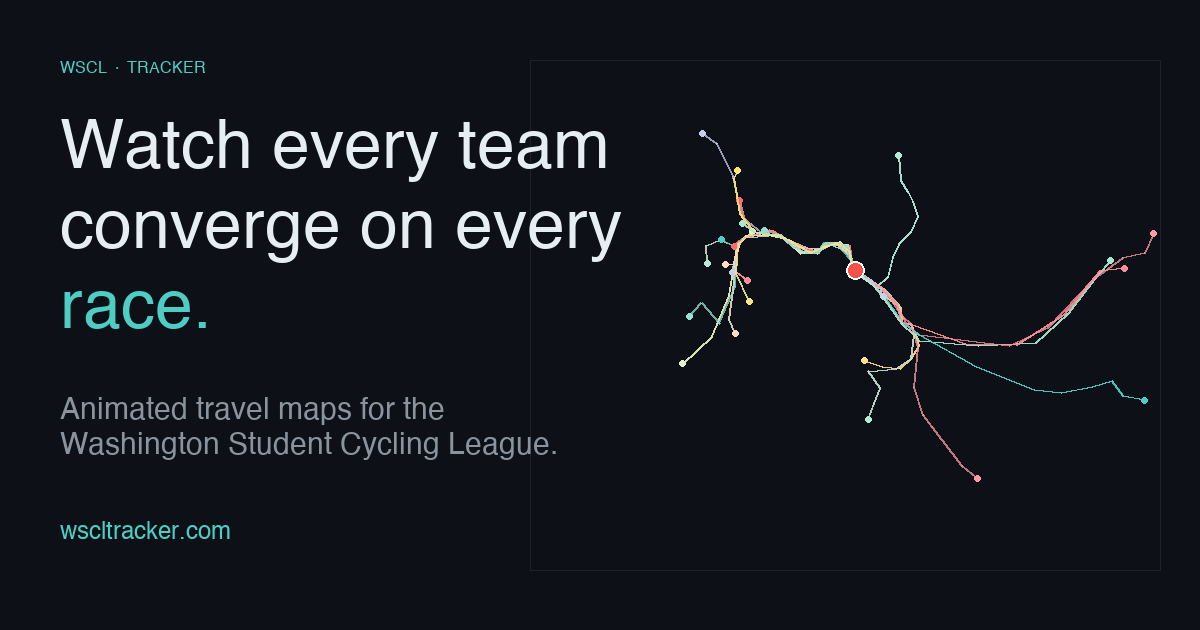
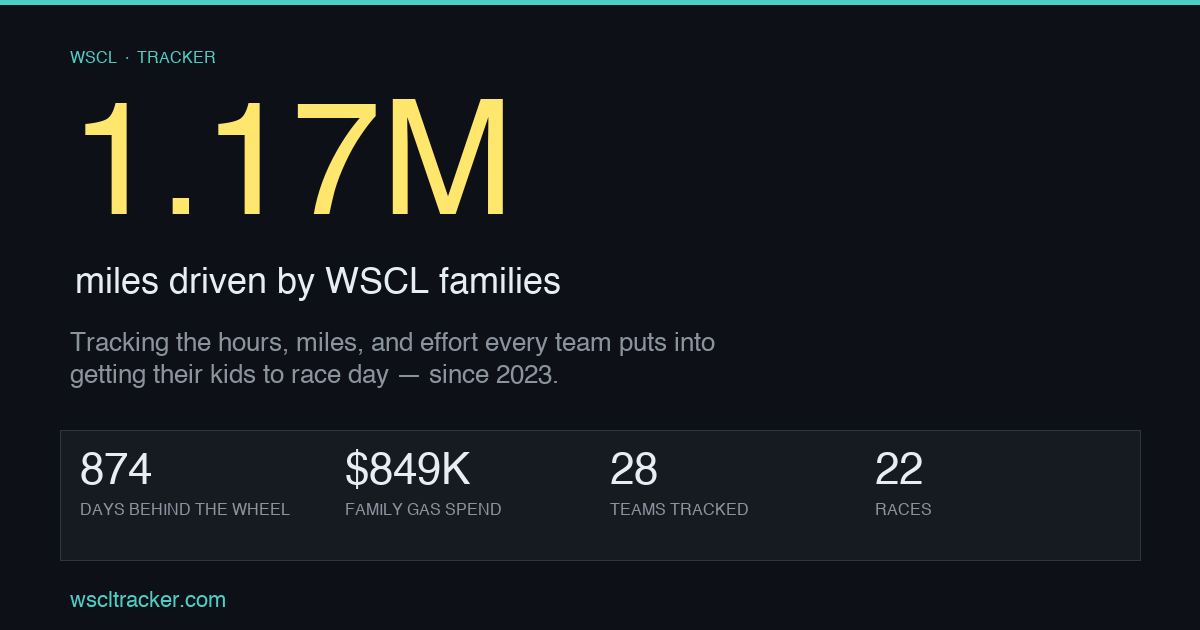
Reframe metadata and og:image around league-wide travel effort
The map is the most eye-catching feature, but it's not what the site
is about — it's a leaderboard that recognizes how much time, money,
and miles families and teams put into getting kids to WSCL races.

- Rewrote <title>, meta description, og:title/description, and
  twitter:title/description around that framing
- Redesigned og-image.png to lead with the headline stat (1.17M
  miles driven) plus supporting numbers (874 days on the road,
  $849K family gas spend, 28 teams tracked, 22 races)

diff --git a/index.html b/index.html
@@ -4,8 +4,8 @@
   <meta charset="UTF-8">
   <meta name="viewport" content="width=device-width, initial-scale=1.0">
 
-  <title>WSCL Travel Tracker — Washington Student Cycling League Distance & Routes</title>
-  <meta name="description" content="Interactive tracker for Washington Student Cycling League travel. Watch animated maps of every team converging on every race venue since 2023, with distance stats, per-family costs, and venue-by-venue breakdowns.">
+  <title>WSCL Tracker — Miles, Hours, and Effort Behind Every WSCL Race</title>
+  <meta name="description" content="A leaderboard for the Washington Student Cycling League: how many miles each team drives, how much families spend on gas, and how many hours parents put into race-day travel. Over 1 million miles tracked since 2023.">
   <meta name="author" content="Andrew Hoehn">
   <meta name="robots" content="index, follow">
   <meta name="theme-color" content="#238636">
@@ -18,18 +18,18 @@
   <!-- Open Graph -->
   <meta property="og:type" content="website">
   <meta property="og:url" content="https://wscltracker.com/">
-  <meta property="og:title" content="WSCL Travel Tracker">
-  <meta property="og:description" content="Watch Washington Student Cycling League teams converge on every race venue in animated maps. Real drive-time animations, distance stats, and per-family cost breakdowns since 2023.">
+  <meta property="og:title" content="WSCL Tracker — The Miles Behind Every Race">
+  <meta property="og:description" content="Over 1 million miles, 870+ days on the road, and $849K in family gas — tracked since 2023. A leaderboard for the WSCL teams and families putting in the work to get kids to race day.">
   <meta property="og:site_name" content="WSCL Tracker">
   <meta property="og:image" content="https://wscltracker.com/og-image.png">
   <meta property="og:image:width" content="1200">
   <meta property="og:image:height" content="630">
-  <meta property="og:image:alt" content="WSCL Travel Tracker — animated maps of teams converging on every race venue">
+  <meta property="og:image:alt" content="WSCL Tracker: 1.17 million miles driven by WSCL families since 2023">
 
   <!-- Twitter Card -->
   <meta name="twitter:card" content="summary_large_image">
-  <meta name="twitter:title" content="WSCL Travel Tracker">
-  <meta name="twitter:description" content="Watch Washington Student Cycling League teams converge on every race venue in animated maps. Real drive-time animations, distance stats, and per-family cost breakdowns since 2023.">
+  <meta name="twitter:title" content="WSCL Tracker — The Miles Behind Every Race">
+  <meta name="twitter:description" content="Over 1 million miles, 870+ days on the road, and $849K in family gas — tracked since 2023. A leaderboard for the WSCL teams and families putting in the work to get kids to race day.">
   <meta name="twitter:image" content="https://wscltracker.com/og-image.png">
 
   <script crossorigin src="https://unpkg.com/react@18/umd/react.production.min.js"></script>

diff --git a/wscl_dashboard_v2.html b/wscl_dashboard_v2.html
@@ -4,8 +4,8 @@
   <meta charset="UTF-8">
   <meta name="viewport" content="width=device-width, initial-scale=1.0">
 
-  <title>WSCL Travel Tracker — Washington Student Cycling League Distance & Routes</title>
-  <meta name="description" content="Interactive tracker for Washington Student Cycling League travel. Watch animated maps of every team converging on every race venue since 2023, with distance stats, per-family costs, and venue-by-venue breakdowns.">
+  <title>WSCL Tracker — Miles, Hours, and Effort Behind Every WSCL Race</title>
+  <meta name="description" content="A leaderboard for the Washington Student Cycling League: how many miles each team drives, how much families spend on gas, and how many hours parents put into race-day travel. Over 1 million miles tracked since 2023.">
   <meta name="author" content="Andrew Hoehn">
   <meta name="robots" content="index, follow">
   <meta name="theme-color" content="#238636">
@@ -18,18 +18,18 @@
   <!-- Open Graph -->
   <meta property="og:type" content="website">
   <meta property="og:url" content="https://wscltracker.com/">
-  <meta property="og:title" content="WSCL Travel Tracker">
-  <meta property="og:description" content="Watch Washington Student Cycling League teams converge on every race venue in animated maps. Real drive-time animations, distance stats, and per-family cost breakdowns since 2023.">
+  <meta property="og:title" content="WSCL Tracker — The Miles Behind Every Race">
+  <meta property="og:description" content="Over 1 million miles, 870+ days on the road, and $849K in family gas — tracked since 2023. A leaderboard for the WSCL teams and families putting in the work to get kids to race day.">
   <meta property="og:site_name" content="WSCL Tracker">
   <meta property="og:image" content="https://wscltracker.com/og-image.png">
   <meta property="og:image:width" content="1200">
   <meta property="og:image:height" content="630">
-  <meta property="og:image:alt" content="WSCL Travel Tracker — animated maps of teams converging on every race venue">
+  <meta property="og:image:alt" content="WSCL Tracker: 1.17 million miles driven by WSCL families since 2023">
 
   <!-- Twitter Card -->
   <meta name="twitter:card" content="summary_large_image">
-  <meta name="twitter:title" content="WSCL Travel Tracker">
-  <meta name="twitter:description" content="Watch Washington Student Cycling League teams converge on every race venue in animated maps. Real drive-time animations, distance stats, and per-family cost breakdowns since 2023.">
+  <meta name="twitter:title" content="WSCL Tracker — The Miles Behind Every Race">
+  <meta name="twitter:description" content="Over 1 million miles, 870+ days on the road, and $849K in family gas — tracked since 2023. A leaderboard for the WSCL teams and families putting in the work to get kids to race day.">
   <meta name="twitter:image" content="https://wscltracker.com/og-image.png">
 
   <script crossorigin src="https://unpkg.com/react@18/umd/react.production.min.js"></script>
